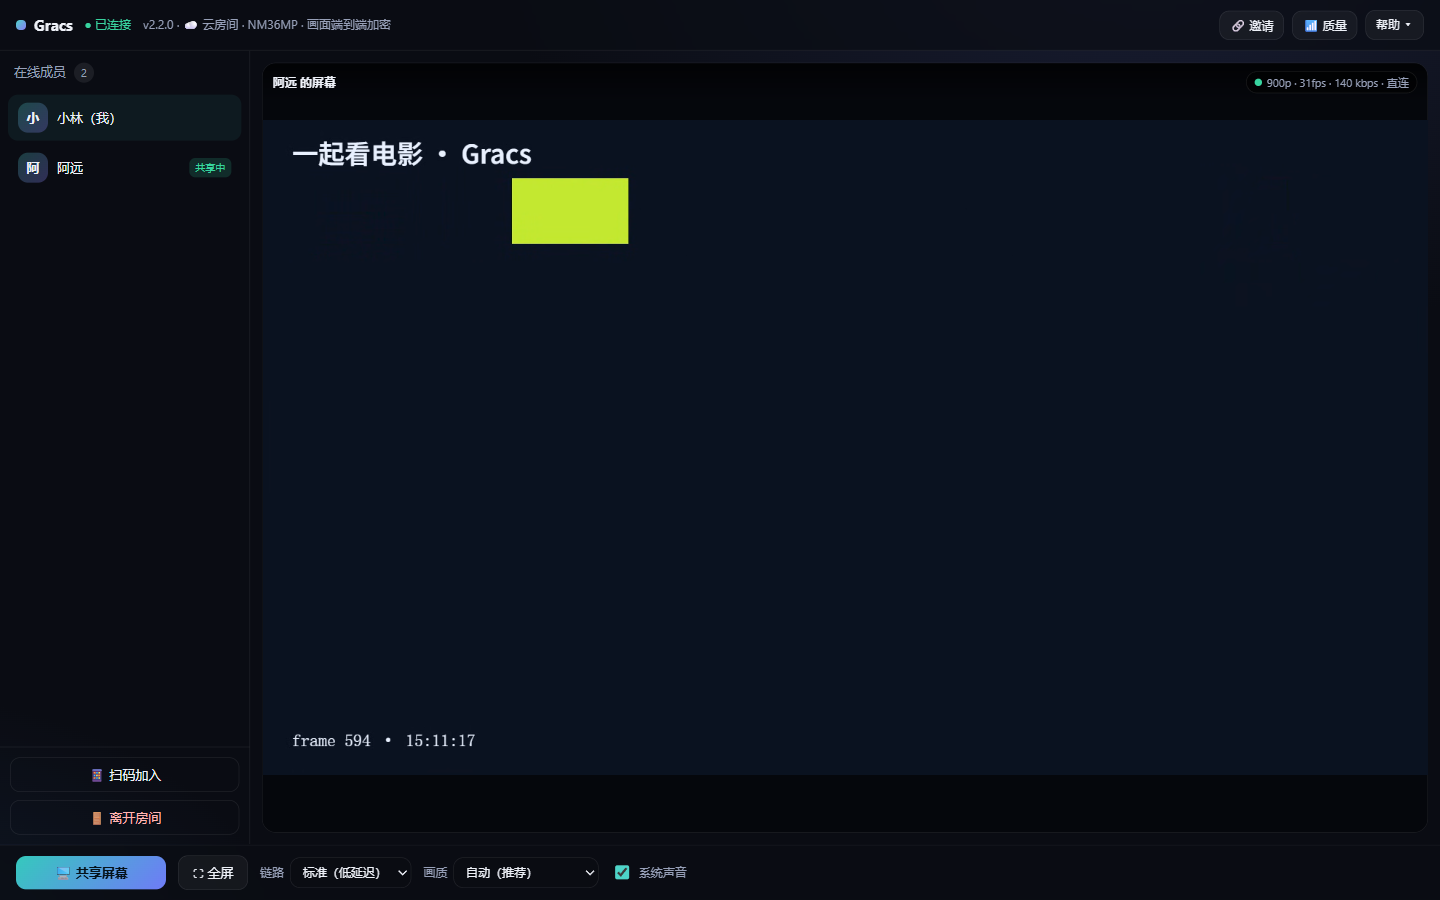
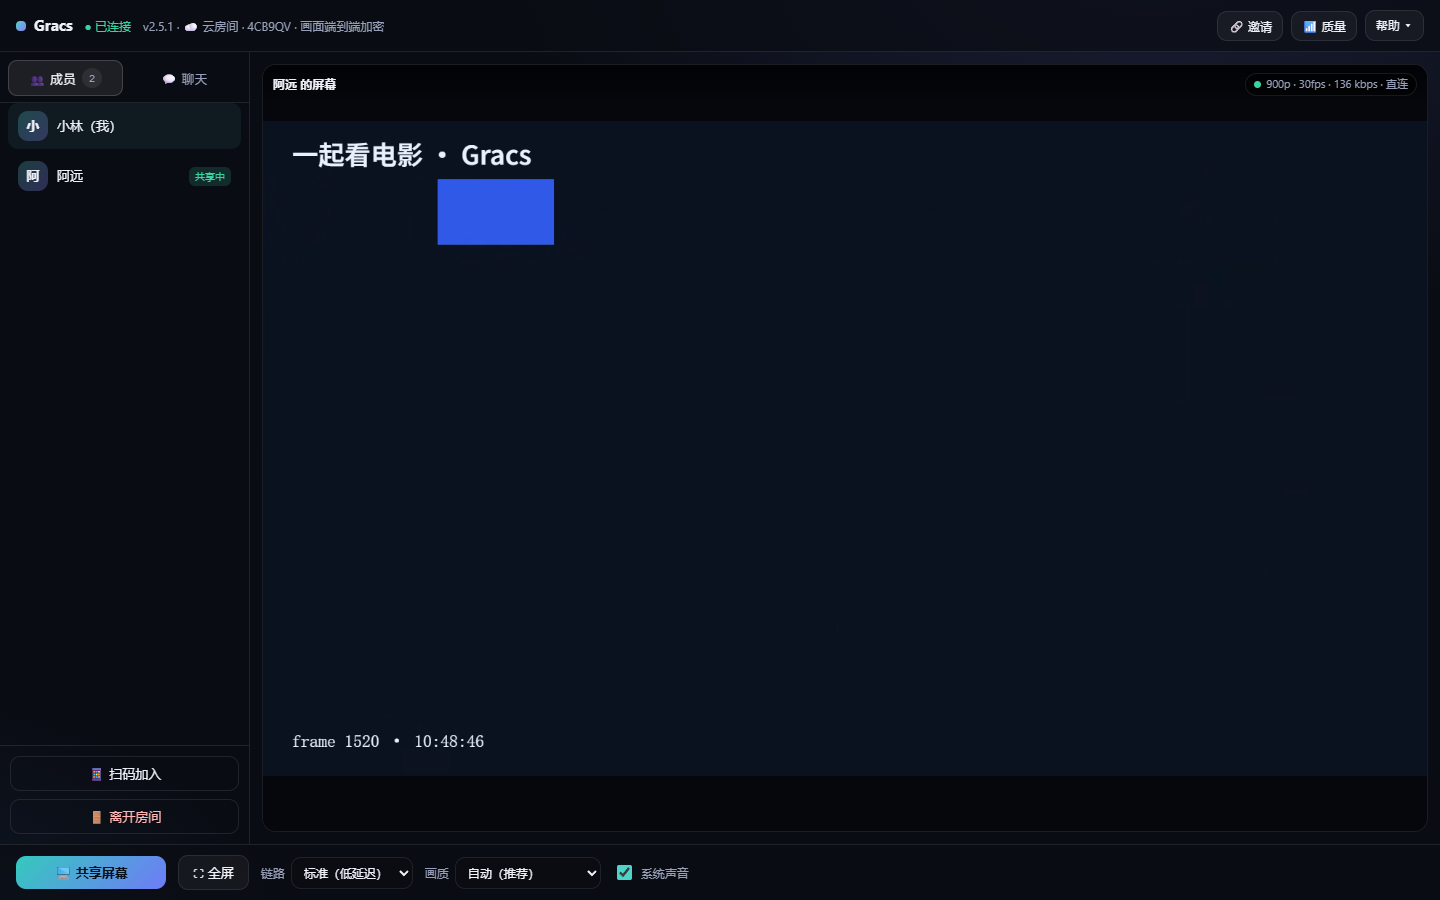
feat(gracs): v2.5.1 站点内容更新 —— 图标/按应用采声/聊天/启动动画 + v2.5.1 实拍界面图与 OG

diff --git a/data/docs.js b/data/docs.js
@@ -583,8 +583,8 @@ window.DOCS["gallery-manager"] = {
 
 /* ---------- gracs ---------- */
 window.DOCS["gracs"] = {
-  "latest": "v2.2.0",
-  "intro": "Gracs（格瑞克斯）是一款自托管的屏幕共享工具：房间里谁都能开播，其他人跟着看，一起看视频、电影与游戏画面。网页版提供云房间（打开即用），桌面版保留完整能力（影院模式、本机开房、系统声音）。",
+  "latest": "v2.5.1",
+  "intro": "Gracs（格瑞克斯）是一款自托管的屏幕共享工具：房间里谁都能开播，其他人跟着看，一起看视频、电影与游戏画面。网页版提供云房间（打开即用），桌面版保留完整能力（影院模式、本机开房、按应用采声）。",
   "features": [
     {
       "title": "云房间（免安装网页版）",
@@ -615,20 +615,30 @@ window.DOCS["gracs"] = {
       ]
     },
     {
-      "title": "观看与声音",
+      "title": "按应用共享声音（不复读语音）",
+      "items": [
+        "音频源可选「整机声音 / 跟随共享窗口 / 指定应用」：指定应用时只采集该应用的声音（Windows 进程回环，桌面版）",
+        "语音软件（Discord / YY / 微信语音）不会被采进去、也不会被静音——边看边聊不再有「朋友听到自己」的回音",
+        "系统声音兼容采集：浏览器回环与声卡驱动 / 蓝牙耳机不兼容时，桌面版自动改用内置兼容采集，不再只能「仅画面」",
+        "浏览器版共享「整个屏幕 / 标签页」可带系统声音；每个画面格可独立调节音量"
+      ]
+    },
+    {
+      "title": "观看体验与文字聊天",
       "items": [
         "多宫格展示、点击聚焦大屏；全屏（含手机 CSS 兜底）、系统级画中画、画面比例切换（自适应 / 16:9 / 原始 / 拉伸）",
-        "共享可同时勾选系统声音，适合一起看视频；桌面版共享窗口时自动静音其它应用，避免通知音混入",
-        "系统声音不可用时（少数声卡驱动不兼容 WASAPI 回环）自动降级为仅画面，并给出原因提示",
-        "每个画面格可独立调节音量；页面不可见时影院解码自动暂停并在恢复时请求关键帧"
+        "房间文字聊天：成员 / 聊天页签、未读徽标、重进房间保留最近记录；消息按纯文本安全渲染",
+        "启动加载动画与全流程动效（进入页 ↔ 房间过渡、弹窗动效、按压手感），并适配系统「减少动态效果」",
+        "页面不可见时影院解码自动暂停并在恢复时请求关键帧"
       ]
     },
     {
       "title": "桌面版与自动更新",
       "items": [
-        "Windows exe（Debug / 便携 / 安装三种形态），内嵌信令服务器与系统托盘，无需安装 Node.js",
-        "桌面版独有能力：影院模式（服务器中继）、本机开房（不依赖云）、窗口声音隔离",
-        "安装版启动时后台多源检查更新（官方源失败自动切换国内镜像），下载校验 PE 头与体积",
+        "Windows exe（Debug / 便携 / 安装三种形态），内嵌信令服务器与系统托盘，无需安装 Node.js；全新图标「G+播放 · 清新薄荷」",
+        "桌面版独有能力：影院模式（服务器中继）、本机开房（不依赖云）、按应用 / 跟随窗口采声",
+        "启动加载动画（品牌启动画面 + 页内动画）；安装版覆盖升级保留设置与中继密钥",
+        "安装版后台多源检查更新（官方源失败自动切换国内镜像）；下载校验 PE 头与体积，并限制只从官方 / 镜像域名下载",
         "浏览器版也可自托管：Node.js 18+ 下 npm install && npm start，局域网 / IPv6 / UPnP 直接可用"
       ]
     }
@@ -641,6 +651,7 @@ window.DOCS["gracs"] = {
         "选择「☁ 云房间」，房间码留空 → 点「创建云房间」，邀请链接会自动复制",
         "把链接发给朋友（或让朋友扫码、或在对方设备输入 6 位房间码加入）",
         "点底部「🖥 共享屏幕」选屏幕/窗口；想看视频先勾选「系统声音」",
+        "侧栏「💬 聊天」可随时发消息（未读有徽标，重进房间保留最近记录）",
         "手机浏览器不支持采集屏幕，手机作为观看端使用"
       ]
     },
@@ -649,6 +660,7 @@ window.DOCS["gracs"] = {
       "steps": [
         "从发布页下载安装版或便携版，双击打开（首次可能提示 SmartScreen，选择仍要运行）",
         "本机开房：选「开房间」→ 进入后点「🔗 邀请」，把局域网 / IPv6 / 公网地址发给好友",
+        "看视频/电影：勾选「系统声音」→ 点「🎚 音频源」选「指定应用」（如播放器）或「跟随共享窗口」——语音软件不会被采进去",
         "影院模式：底部「链路」切到影院（需主机开服），弱网也保持画质稳定",
         "联机诊断：顶栏「🌐 网络」查看每条联机路径与处理建议"
       ]
@@ -657,13 +669,54 @@ window.DOCS["gracs"] = {
       "title": "常见问题排查",
       "steps": [
         "连不上：先让对方打开「网络诊断」看结论；公司 / 校园网通常会显示走中继",
-        "没有声音：共享时勾选系统声音；Windows 上共享「窗口」通常无法采集系统声音，请改选「整个屏幕」",
+        "没有声音：勾选系统声音并选对「音频源」；浏览器共享「窗口」不支持音频（请选整屏 / 标签页）；桌面版遇驱动不兼容会自动用兼容采集",
         "画面卡：看电影用影院模式（桌面版主机）；游戏用标准链路 + 游戏档",
         "手机全屏：用底部「⛶ 全屏」按钮，Safari / 微信内置浏览器也做了兜底"
       ]
     }
   ],
   "changelog": [
+    {
+      "version": "v2.5.1",
+      "date": "2026-10-13",
+      "items": [
+        "全新应用图标「G+播放 · 清新薄荷」（窗口 / 托盘 / 安装包 / PWA / favicon 全套）",
+        "正式发布：安装版 / 便携版 / Debug 版三形态同步更新，国内镜像下载"
+      ]
+    },
+    {
+      "version": "v2.5.0",
+      "date": "2026-10-12",
+      "items": [
+        "启动加载动画：桌面品牌启动画面 + 页内动画（就绪后淡出）",
+        "全流程体验优化：屏间过渡、弹窗动效、按钮手感、聚焦光晕（适配系统「减少动态效果」）",
+        "安全加固：信令连接 Origin 校验、主窗口导航防护、更新包下载域名白名单、用户名过滤"
+      ]
+    },
+    {
+      "version": "v2.4.1",
+      "date": "2026-10-12",
+      "items": [
+        "系统声音失败提示按共享来源区分（窗口 / 整屏 / 桌面版），指引更准确"
+      ]
+    },
+    {
+      "version": "v2.4.0",
+      "date": "2026-10-12",
+      "items": [
+        "按应用共享声音：音频源可选「整机 / 跟随共享窗口 / 指定应用」——只采选定应用的声音",
+        "语音软件不被采集也不被静音（边看边聊不再有回音）；窗口声音失败自动回退整机 / 仅画面"
+      ]
+    },
+    {
+      "version": "v2.3.0",
+      "date": "2026-10-12",
+      "items": [
+        "房间文字聊天：成员 / 聊天页签、未读徽标、历史记录（本地与云房间双端）",
+        "系统声音兼容采集：声卡驱动不兼容浏览器回环时自动改用内置采集",
+        "全屏 / 画中画交互完善：右上角退出按钮、按钮状态开关、PiP 状态同步"
+      ]
+    },
     {
       "version": "v2.2.0",
       "date": "2026-10-08",
@@ -715,7 +768,11 @@ window.DOCS["gracs"] = {
     },
     {
       "q": "系统声音没有传过去？",
-      "a": "先确认共享时勾选了「系统声音」，并在系统弹窗里允许共享音频（Edge / Chrome 仅「整个屏幕 / 标签页」支持）。少数声卡驱动与系统音频回环不兼容时会自动降级为仅画面，可尝试更新声卡驱动或关闭音频增强。"
+      "a": "先确认共享时勾选了「系统声音」，并选对「音频源」：桌面版推荐「指定应用」（选正在播放的应用）或「跟随共享窗口」；浏览器请共享「整个屏幕 / 标签页」。若声卡驱动与浏览器回环不兼容，桌面版会自动改用兼容采集，一般无需手动处理（更新声卡驱动可根治）。"
+    },
+    {
+      "q": "边看边聊会不会有回音？",
+      "a": "用桌面版把「音频源」设为「指定应用」或「跟随共享窗口」：只采集影音应用的声音，语音软件（Discord / YY / 微信）不会被采进去，也不会被静音——朋友不会再从你这边听到自己的声音。"
     },
     {
       "q": "云房间和本机开房怎么选？",

diff --git a/data/projects.js b/data/projects.js
@@ -106,13 +106,13 @@ window.PROJECTS = [
     "featured": false,
     "screenshots": [
       {"src": "assets/gracs/lobby.png", "caption": "网页版 · 打开即用，输昵称建房/加入"},
-      {"src": "assets/gracs/room.png", "caption": "房间 · 多宫格观看，系统声音一起看"},
-      {"src": "assets/gracs/invite.png", "caption": "邀请 · 房间码 / 邀请链接 / 二维码"}
+      {"src": "assets/gracs/room.png", "caption": "房间 · 多宫格观看，聊天页签与系统声音"},
+      {"src": "assets/gracs/chat.png", "caption": "聊天 · 成员 / 聊天页签与未读徽标"}
     ],
-    "summary": "自托管屏幕共享：云房间网页版打开即用，6 位码 / 邀请链接让朋友（含手机）直接加入；媒体 WebRTC P2P 直连不经服务器，零外置联机软件，打洞失败自动走中继。",
-    "detail": "Gracs（格瑞克斯）是一款自托管的屏幕共享工具：房间里谁都能开播，其他人跟着看，一起看视频、电影与游戏画面。网页版提供「云房间」——打开 gracs.ginyva.site 输入昵称就能建房，把 6 位房间码或邀请链接/二维码发给朋友（手机也可以）直接加入，开房者不需要公网 IP、不需要安装任何联机软件；画面与声音走 WebRTC P2P 直连、端到端加密，打洞失败自动走中继。零外置软件联机：内置 STUN/TURN、UPnP/NAT-PMP 自动端口映射与 IPv6/局域网直连，网络诊断页逐项给出人话结论。双链路：标准链路低延迟适合游戏；影院模式（WebCodecs 服务器中继）画质恒定适合看电影（桌面版开房）。画质档位（自动 / 电影 / 游戏 / 文字 / 省流）可实时切换，每位观看者独立自适应码率，质量面板实时显示码率、帧率、RTT、丢包、直连或中继与声音状态。观看端支持全屏（含手机 CSS 兜底）、系统级画中画、画面比例与逐人音量；桌面版为 Windows exe，内嵌服务器与系统声音，带多镜像自动更新。",
+    "summary": "自托管屏幕共享：云房间网页版打开即用，6 位码 / 邀请链接让朋友（含手机）直接加入；媒体 WebRTC P2P 直连不经服务器，零外置联机软件，打洞失败自动走中继；可按应用采声并内置房间聊天。",
+    "detail": "Gracs（格瑞克斯）是一款自托管的屏幕共享工具：房间里谁都能开播，其他人跟着看，一起看视频、电影与游戏画面。网页版提供「云房间」——打开 gracs.ginyva.site 输入昵称就能建房，把 6 位房间码或邀请链接/二维码发给朋友（手机也可以）直接加入，开房者不需要公网 IP、不需要安装任何联机软件；画面与声音走 WebRTC P2P 直连、端到端加密，打洞失败自动走中继。零外置软件联机：内置 STUN/TURN、UPnP/NAT-PMP 自动端口映射与 IPv6/局域网直连，网络诊断页逐项给出人话结论。双链路：标准链路低延迟适合游戏；影院模式（WebCodecs 服务器中继）画质恒定适合看电影（桌面版开房）。画质档位（自动 / 电影 / 游戏 / 文字 / 省流）可实时切换，每位观看者独立自适应码率，质量面板实时显示码率、帧率、RTT、丢包、直连或中继与声音状态。想边看边聊：音频源可切到「指定应用 / 跟随共享窗口」——只把影音应用的声音分享出去，语音软件不被采进去也没有回音；房间内还有轻量文字聊天（成员/聊天页签、未读徽标、历史记录）。v2.5.1 起换用全新图标「G+播放 · 清新薄荷」，并加入启动加载动画与多项安全加固；桌面版为 Windows exe，内嵌服务器与系统声音，带多镜像自动更新。",
     "tech": ["WebRTC", "WebCodecs", "Cloudflare Workers", "Node.js", "Electron", "PWA"],
-    "highlights": ["☁ 云房间：免安装网页版，邀请链接/扫码即加入", "手机/平板直接观看（响应式 + 全屏兜底）", "标准链路 + 影院模式双链路", "画质实时切换 + 质量面板", "零外置软件联机（内置中继 / UPnP / IPv6）", "系统声音一起看（浏览器 / 桌面版）"],
+    "highlights": ["☁ 云房间：免安装网页版，邀请链接/扫码即加入", "🎧 按应用采声（不采语音软件，边看边聊无回音）", "💬 房间文字聊天（未读徽标 + 历史记录）", "标准链路 + 影院模式双链路", "画质实时切换 + 质量面板", "零外置软件联机（内置中继 / UPnP / IPv6）"],
     "page": "projects/gracs/",
     "downloads": [
       {"label": "网页版（免安装）", "url": "https://gracs.ginyva.site/", "size": "打开即用"},
@@ -123,7 +123,7 @@ window.PROJECTS = [
       {"label": "GitHub 仓库", "url": "https://github.com/GinyvaXu/Gracs"},
       {"label": "发布页", "url": "https://github.com/GinyvaXu/Gracs/releases"}
     ],
-    "lastUpdate": "v2.2.0 · 2026-10-08 — 云房间网页版上线（gracs.ginyva.site 打开即用、邀请链接/扫码即加入）+ 系统声音不可用时自动仅画面降级"
+    "lastUpdate": "v2.5.1 · 2026-10-13 — 全新图标（G+播放 · 清新薄荷）+ 启动加载动画 + 安全加固；按应用采声 / 文字聊天自 v2.3–2.4 起可用，已发布 Releases 与国内镜像"
   },
   {
     "id": "cloudbox",

diff --git a/data/landings.js b/data/landings.js
@@ -52,7 +52,7 @@ window.LANDINGS = {
     accent: ["#22d3ee", "#6366f1"],
     heroTitle: "把屏幕，<em>递给远方的人</em>",
     heroSub: "云房间网页版打开即用：输昵称建房，6 位房间码或邀请链接让朋友（含手机）直接加入；画面走 WebRTC P2P 直连、端到端加密，开房者不需要公网 IP、不需要任何联机软件。",
-    trust: ["☁ 云房间免安装", "P2P 直连 · 端到端加密", "零外置联机软件", "Windows 桌面版"],
+    trust: ["☁ 云房间免安装", "P2P 直连 · 端到端加密", "零外置联机软件", "🎧 按应用采声"],
     webUrl: "https://gracs.ginyva.site/",
     webLabel: "网页版立即使用",
     heroMedia: "../../assets/gracs/room.png",
@@ -60,7 +60,8 @@ window.LANDINGS = {
     demo: [
       { label: "① 打开即建房", src: "../../assets/gracs/lobby.png", caption: "输昵称 → 云房间 → 自动生成房间码与邀请链接。" },
       { label: "② 邀请与加入", src: "../../assets/gracs/invite.png", caption: "链接 / 二维码 / 6 位码，手机扫码直接进。" },
-      { label: "③ 一起看屏幕", src: "../../assets/gracs/room.png", caption: "多宫格观看、点击聚焦；共享可带系统声音。" }
+      { label: "③ 一起看屏幕", src: "../../assets/gracs/room.png", caption: "多宫格观看、点击聚焦；共享可带系统声音（可按应用）。" },
+      { label: "④ 房间聊天", src: "../../assets/gracs/chat.png", caption: "成员 / 聊天页签、未读徽标，重进房间保留最近记录。" }
     ],
     featuresTitle: "不用联机软件，也不用装东西",
     featuresSub: "云信令 + P2P 直连 + 内置中继兜底，把「联机」这件事从使用步骤里删掉。",
@@ -70,12 +71,14 @@ window.LANDINGS = {
       { icon: "🛟", title: "零外置联机软件", text: "内置 STUN/TURN、UPnP/NAT-PMP 打洞与 IPv6 / 局域网直连。" },
       { icon: "🎞", title: "双链路可选", text: "标准链路低延迟适合游戏；影院模式画质恒定适合看电影。" },
       { icon: "📶", title: "画质可控可观测", text: "五档画质实时切换，逐观看者自适应码率 + 实时质量面板。" },
-      { icon: "📱", title: "手机也能看", text: "响应式界面、扫码进入、全屏兜底与 PWA，手机即观看端。" }
+      { icon: "📱", title: "手机也能看", text: "响应式界面、扫码进入、全屏兜底与 PWA，手机即观看端。" },
+      { icon: "🎧", title: "按应用采声 · 无回音", text: "只采集选定应用的声音，语音软件不被采进去也不被静音。" },
+      { icon: "💬", title: "房间文字聊天", text: "成员 / 聊天页签、未读徽标，重进房间保留最近记录。" }
     ],
     deep: [
       { kicker: "CLOUD", title: "开房者不再需要「可被连接」", text: "云房间把信令托管到 Cloudflare：开房不暴露 IP、不用端口映射、不用组网；邀请链接指向公网页版，朋友手机扫码就能进。", bullets: ["6 位房间码 / 邀请链接", "手机扫码直接加入", "媒体仍走 P2P 直连"], media: "../../assets/gracs/lobby.png", caption: "网页版进入页 · 云房间" },
       { kicker: "SHARE", title: "一起看电影，画面不抖", text: "影院模式用 WebCodecs + 服务器中继把码率固定住，弱网也不忽明忽暗；标准链路则把延迟压到最低，适合游戏与互动。", bullets: ["影院 1080p30 / 游戏 1080p60", "文字档优先保清晰度", "共享中随时切换"], media: "../../assets/gracs/room.png", caption: "房间 · 大屏观看" },
-      { kicker: "AUDIO", title: "系统声音也一起传", text: "共享时可勾选系统声音，队友直接听到视频原声；桌面版共享窗口时自动静音其它应用，避免通知音混进来。", bullets: ["浏览器 / 桌面版均可用", "窗口声音隔离（桌面版）", "声卡不兼容时自动降级仅画面"], media: "../../assets/gracs/invite.png", caption: "邀请朋友一起看" }
+      { kicker: "AUDIO", title: "只分享想分享的声音", text: "音频源可选「整机 / 跟随共享窗口 / 指定应用」：指定应用时只采集该应用的声音；语音软件不会被采进去、也不会被静音——边看边聊不再有回音。声卡驱动不兼容时桌面版自动启用兼容采集。", bullets: ["指定应用采声（Windows 进程回环）", "跟随共享窗口（窗口声音隔离）", "语音软件不受影响", "声卡不兼容自动兜底"], media: "../../assets/gracs/invite.png", caption: "邀请朋友一起看" }
     ],
     dlSub: "网页版免安装 · Windows 桌面版支持影院模式与本机开房",
     os: "Windows 10 / 11 + 任意现代浏览器",

diff --git a/data/logs.js b/data/logs.js
@@ -12,6 +12,12 @@
 window.LOGS = [
   {
     "date": "2026-10-13",
+    "title": "Gracs v2.5.1 正式发布：新图标 + 启动动画 + 安全加固",
+    "tags": ["Gracs"],
+    "content": "Gracs 完成 v2.5.1 发布并上线国内镜像：全新应用图标「G+播放 · 清新薄荷」（窗口 / 托盘 / 安装包 / PWA / favicon 全套，与 VIDAR 同款配色）；启动加载动画（桌面品牌启动画面 + 页内动画）与全流程动效优化；安全加固（信令连接 Origin 校验、主窗口导航防护、更新包下载域名白名单）。此前 v2.3–v2.4 已加入房间文字聊天、系统声音兼容采集与按应用采声（指定应用 / 跟随共享窗口，语音软件不再被采进去，边看边聊无回音）。安装版可覆盖升级，自动更新清单已指向 v2.5.1。"
+  },
+  {
+    "date": "2026-10-13",
     "title": "VIDAR v0.14.0：上架工具站 + 图标换新 + 代码审查修复",
     "tags": ["VIDAR"],
     "content": "把 B 站视频变成可读知识文档的桌面工具上架工具站：本地语音识别（faster-whisper）+ 大模型整理，一条链接产出结构化摘要、分章节目录、精修逐字稿与报刊 / 论文 PDF、Word、EPUB；自动识别省略广告、批量队列、断点续跑。本版换上「清新薄荷」新图标，并完成一轮全量代码审查：修复 ASR 续跑时间戳偏移、分 P 视频任务串档、广告区间变化后下游重算、便携包模型路径等 23 项问题，111 项自动化测试全绿。"
